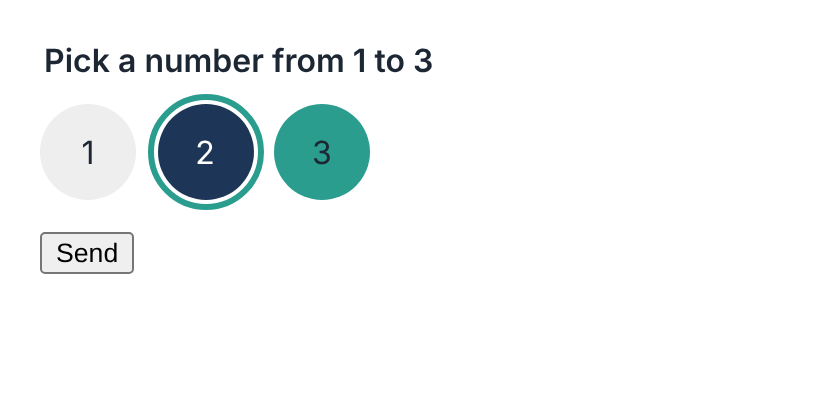
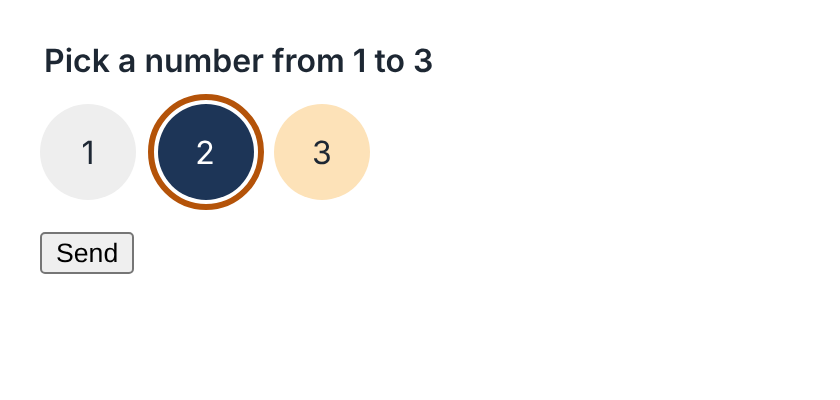
prep for gumroad and website blog

Changed region(s): [[0.1548, 0.24, 0.4643, 0.54]]

diff --git a/tools/about_toc.py b/tools/about_toc.py
@@ -1,0 +1,115 @@
+"""Insert (or refresh) the collapsed "About this module" block (Modules 1-13) and the Contents list (all modules) under each post's Time line.
+Idempotent: the inserted parts sit between <!-- about:start/end --> and <!-- contents:start/end --> markers.
+Usage (from the Code559 folder):  python tools/about_toc.py            (or pass a blog folder path)
+Needs: pip install markdown-it-py
+Run it after any change to a post's headings, or to the summaries and tips below. Never hand-edit between the markers."""
+import re, glob, os, sys
+from markdown_it import MarkdownIt
+
+BLOG = sys.argv[1] if len(sys.argv) > 1 else os.path.join(os.path.dirname(os.path.abspath(__file__)), "..", "blog")
+
+SUMMARIES = {
+0: "You set up file extensions, VS Code (with its AI features off), Git, the GitHub CLI and Node.js, and prove each one works with a single command. It's what keeps the rest of the course moving: every later module assumes these tools are ready, so no lesson ever stops for an install.",
+1: "You learn how the web delivers a page, how to write HTML by hand, how to link pages together, and how to publish your first page on GitHub Pages. This is foundational: every website, framework and page builder ends up as an HTML file a browser reads. You also finish the first week with something live on the web.",
+2: "You learn to link a stylesheet, write rules for color, type and spacing, predict which rule wins, and build a navigation bar with Flexbox. It saves you hours: when a rule \"does nothing,\" the cause is almost always one of the three problems this module teaches on purpose.",
+3: "You learn the box model, mobile-first media queries, CSS Grid and responsive images, and how to test a page at different widths. It's essential because more visitors will see your site on a phone than on a laptop, and one HTML file with one stylesheet can serve them all.",
+4: "You learn to build forms with real controls, labels and radio groups, and to test them with the keyboard and style their states. It matters to every visitor: a missing label or name can leave a screen reader user guessing, or lose what a visitor typed. The browser already gives you most of the fix if you use the right elements.",
+5: "You learn what a program is, where JavaScript runs, how to see a value and how to read an error message. You also start the Predict → Run → Modify → Create → Debug habit. It's the habit every later module depends on: run it, change it, break it, and read what the computer tells you.",
+6: "You learn values and types, `const` and `let`, operators, comparisons, and `if`/`else`. These are the moves behind every interactive feature: store a value, compare it, decide. They are also where most early bugs come from, so you cause each one on purpose to learn to recognize it.",
+7: "You learn to define, call, test and return values from functions, including how to write one from a one-sentence description. It's how working developers check their code: a function that hands back a value can be tested with made-up inputs before any web page exists.",
+8: "You learn to keep lists in arrays, visit every item with a loop, and give each item named facts with objects. It's the toolkit for any page built from data: twenty projects or milestones don't fit in twenty separate variables.",
+9: "You learn to find elements on a page, change them, and react to clicks and keys, organizing every script in the same three blocks. This is where everything you've learned becomes visible: the language from Modules 5–8 finally changes what a visitor sees.",
+10: "You learn to catch a form before it sends, check what was typed, show accessible error messages, and confirm success. It's a kindness to your visitors: a clear message in the right place saves them from guessing. You'll also learn why these checks are about the visitor's experience, not security.",
+11: "You learn to read errors, track down bugs with the Console, test with the keyboard, and write Action / Expected / Actual test plans. It turns fixing into a method, not luck: guess-and-edit stops working once a page has real JavaScript, and a written test can be checked again after every change.",
+12: "You learn what your save routine actually does: staging, diffs, history, branches, merges, and Issues and pull requests connected with `Closes #1`. You also learn to tag a v1.0 release. It's what employers look for: a history of small, clear commits and merged pull requests shows you work the way a team does.",
+13: "You learn to turn a written requirement into tasks, and to finish each feature with the nine-step completion standard. Then you check the whole site and audit your portfolio. It's the skill real work asks for: building from a short list with no step-by-step guide, and knowing when you are actually done.",
+}
+
+TIPS = """**Tips for the learner**
+
+Some prompts ask you to explain code to yourself, out loud. Others ask you to write something down. Each habit does a different job.
+
+**Recite to understand.** When a prompt says "out loud," explain the code in your own words, as if you were teaching it. Saying it aloud makes a deeper impression than reading silently. It helps you picture how the pieces of code fit together. And it shows you right away which line you cannot explain yet. That line is the one to review.
+
+**Write it down to check yourself.** When a prompt says "write down," it is usually a prediction, a choice, or a guess about a bug. A written answer can't change after you see the result, so the comparison is fair and you learn from the difference. Writing also keeps your attention on the lesson and helps you pick out the main points.
+
+**Keep one notebook for this course.** Use it for your predictions, key terms, steps, mistakes, and questions to come back to. Date each entry and write the module number, so you can find it later. Before you start a new module, read your last few entries and recite one or two of them out loud."""
+
+TIPS_M0 = """**Tips for the learner**
+
+This module is mostly installing, so its prompts ask you to write things down. In later modules, some prompts will also ask you to explain code to yourself, out loud. Each habit does a different job.
+
+**Write it down to check yourself.** Here that means your answers in Concept 1, and what each version command prints. A written answer can't change after you see the result, so the comparison is fair and you learn from the difference. If a tool stops working in a later module, your notes show what was working before.
+
+**Recite to understand.** From the later modules on, when a prompt says "out loud," explain the code in your own words, as if you were teaching it. Saying it aloud makes a deeper impression than reading silently, and it shows you right away which line you cannot explain yet.
+
+**Start one notebook for this course, today.** Use it for your predictions, key terms, steps, mistakes, and questions to come back to. Date each entry and write the module number. Your first entries come from this module: the four version numbers (Git, GitHub CLI, Node, npm) and the folder path of `my-site`."""
+
+BADGE = '<img src="images/brand/marker-{n}.svg" alt="" width="24" height="24" style="vertical-align:-0.35em;">'
+LEGEND = f"""**The four badges**
+
+Every core concept moves through the same four steps, called IEIA. Each step is marked with its badge.
+
+{BADGE.format(n="introduce")} - **Introduce** (a lightbulb: a new idea) - You meet the concept: its name, and why it matters to you, in a sentence or two.
+
+{BADGE.format(n="explain")} - **Explain** (a speech bubble: the idea in words) - How it works, one idea at a time, in plain words.
+
+{BADGE.format(n="illustrate")} - **Illustrate** (an eye: see it) - A small example you can look at: a code snippet, a real screenshot or a diagram. Its caption, which starts with this badge, tells you what to notice.
+
+{BADGE.format(n="apply")} - **Apply** (a keyboard: your turn) - A short task to do right now, before you read on. Often you type or predict something; sometimes you write it down, sketch it, or explain code to yourself out loud."""
+
+def about_block(n):
+    return ("<!-- about:start -->\n<details>\n<summary><strong>About this module</strong></summary>\n\n"
+            f"**What this module covers**\n\n{SUMMARIES[n]}\n\n{TIPS_M0 if n == 0 else TIPS}\n\n{LEGEND}\n\n</details>\n<!-- about:end -->")
+
+def gh_slug(text):
+    """GitHub-style heading id: lowercase, drop punctuation (keep letters, digits, _, -, spaces), spaces to hyphens."""
+    s = text.strip().lower()
+    s = re.sub(r"[^\w\- ]", "", s)
+    return s.replace(" ", "-")
+
+def headings(src):
+    md = MarkdownIt("commonmark", {"html": True}).enable("table")
+    src = re.sub(r"\A---\n.*?\n---\n", "", src, flags=re.S)
+    toks = md.parse(src)
+    out, seen = [], {}
+    for i, t in enumerate(toks):
+        if t.type != "heading_open":
+            continue
+        inline = toks[i + 1]
+        plain = "".join(c.content for c in inline.children if c.type in ("text", "code_inline"))
+        base = gh_slug(plain); k = seen.get(base, 0); seen[base] = k + 1
+        out.append((t.tag, inline.content, base if k == 0 else f"{base}-{k}"))
+    return out
+
+def contents_block(src):
+    lines, in_core = ["<!-- contents:start -->", "", "**Contents**", ""], False
+    for tag, text, slug in headings(src):
+        if tag == "h2":
+            in_core = text == "Core concepts"
+            lines.append(f"- [{text}](#{slug})")
+        elif tag == "h3" and in_core:
+            lines.append(f"  - [{text}](#{slug})")
+    lines += ["", "<!-- contents:end -->"]
+    return "\n".join(lines)
+
+def process(path):
+    raw = open(path, "rb").read()
+    crlf = b"\r\n" in raw                      # keep the file's own line endings (Windows checkouts use CRLF)
+    s = raw.decode("utf-8").replace("\r\n", "\n")
+    n = int(re.search(r"^module:\s*(\d+)", s, re.M).group(1))
+    s = re.sub(r"\n*<!-- about:start -->.*?<!-- about:end -->\n*", "\n\n", s, flags=re.S)
+    s = re.sub(r"\n*<!-- contents:start -->.*?<!-- contents:end -->\n*", "\n\n", s, flags=re.S)
+    m = re.search(r"^\*\*Time:\*\*[^\n]*\n", s, re.M)
+    assert m, path
+    head, rest = s[:m.end()], s[m.end():].lstrip("\n")
+    parts = [about_block(n), contents_block(s)]
+    s = head + "\n" + "\n\n".join(parts) + "\n\n" + rest
+    if crlf:
+        s = s.replace("\n", "\r\n")
+    open(path, "w", encoding="utf-8", newline="").write(s)
+    return n
+
+if __name__ == "__main__":
+    for f in sorted(glob.glob(os.path.join(BLOG, "module-*.md"))):
+        print(process(f), os.path.basename(f))

diff --git a/AGENTS.md b/AGENTS.md
@@ -1,0 +1,37 @@
+# Instructions for coding agents (Code559)
+
+The free lessons of the Code559 Front-End Developer Course: `blog/index.md` plus 14 module posts (`blog/module-00-*.md` to `blog/module-13-*.md`) and their pictures in `blog/images/`. The website (559solutions.com) and the paid packets are both built from these files.
+
+## Owner rules (always)
+
+- Do not commit, push, tag, open pull requests, or deploy. The owner reviews the diff and does those himself.
+- Do not run `gh auth`, and do not read or print credentials or tokens.
+- Keep each change to the task you were given.
+
+## Writing rules
+
+Follow `blog/STYLE-GUIDE.md` exactly. Its key points:
+
+- Reading level grade 6 to 10: short sentences, second person, plain words. No profanity.
+- Banned words: genuinely, honestly, straightforward.
+- "Out loud" is used only for explaining code to yourself. The first one in each module carries the `[^recite]` footnote.
+- Every core concept follows the IEIA badges (Introduce, Explain, Illustrate, Apply).
+- Nothing unverified is published. Check each fact against a named source (MDN, GitHub Docs, git-scm.com) and add it, dated, to the post's "Sources checked" line.
+- Pictures: real captures or renders, or drawn copies with a visible ILLUSTRATION label. Alt text on every picture. Never show a build path, a real student's name, or personal details.
+- The "## Project (in the full packet)" section of each post is a public promise of what the paid packet contains. Do not change it without telling the owner, because the packet must still match it.
+
+## Generated blocks: do not hand-edit
+
+Text between `<!-- about:start -->` / `<!-- about:end -->` and `<!-- contents:start -->` / `<!-- contents:end -->` is generated. After any change to a post's headings, or to the summaries or tips, run:
+
+```
+pip install markdown-it-py
+python tools/about_toc.py
+```
+
+It is safe to run more than once, and it keeps each file's line endings.
+
+## After a lesson changes
+
+1. Update the website copy: in `../559solutions.com`, run `pnpm sync:code559` then `pnpm validate`.
+2. Tell the owner which modules changed. Their paid packets (PDF and EPUB) need a rebuild from the private packets folder (`../Code559-packets`, see its README). Do not put packet content in this repository; it is the paid product.

diff --git a/blog/module-04-forms-accessibility.md b/blog/module-04-forms-accessibility.md
@@ -239,7 +239,8 @@ Finally, style the label from the radio's **state**. Put each input right before
 
 ```css
 :root {
-  --ring: #2a9d8f;
+  --ring: #b45309;
+  --hover: #fde2b8;
   --on: #1d3557;
 }
 
@@ -255,14 +256,14 @@ Finally, style the label from the radio's **state**. Put each input right before
   border: 0;
 }
 
-.choices label:hover { background: var(--ring); }
+.choices label:hover { background: var(--hover); }
 .choices input:focus-visible + label { outline: 3px solid var(--ring); }
 .choices input:checked + label { background: var(--on); color: white; }
 ```
 
 <div role="separator" style="display:flex;align-items:flex-end;margin:1.5em 0;"><img src="images/brand/divider-wall.svg" alt="" style="flex:1;min-width:0;height:34px;"><img src="images/brand/divider-window.svg" alt="" style="width:70px;height:34px;"><img src="images/brand/divider-wall.svg" alt="" style="flex:3;min-width:0;height:34px;"><img src="images/brand/divider-door.svg" alt="" style="width:46px;height:34px;"></div>
 
-![Three round buttons labeled 1, 2 and 3. Button 2 is dark with a teal ring around it; button 3 is teal.](images/m04-state-selectors.png)
+![Three round buttons labeled 1, 2 and 3. Button 2 is dark with a dark orange ring around it; button 3 is light orange.](images/m04-state-selectors.png)
 <img src="images/brand/marker-illustrate.svg" alt="Illustrate" width="24" height="24" style="vertical-align:-0.35em;"> *2 is checked (dark) and has keyboard focus (ring); the mouse is over 3 (`:hover`). The radios are invisible, yet Tab landed on the checked one, and Send produced `?pick=2`. When the inputs were set to `display: none` instead, the first Tab skipped the group and went straight to Send. (real: rendered in Chromium at 420 px)*
 
 <img src="images/brand/marker-apply.svg" alt="Apply" width="24" height="24" style="vertical-align:-0.35em;"> Predict: you swap the order of one input and its label in the HTML. Which state style stops working for that choice, and why does `+` explain it?

diff --git a/blog/module-08-arrays-loops-objects.md b/blog/module-08-arrays-loops-objects.md
@@ -390,7 +390,7 @@ live || year === 2026
 
 ## Project (in the full packet)
 
-The project is a `site-data.js` file for your personal site: your real Projects and Milestones written as two arrays of objects (title, year, a short description, tags, and whether each one is live), plus a few small functions that summarize the data, written from one-sentence descriptions and tested in Node. One counts the live projects, one lists every title as a single line of text, and one collects the milestones from a given year. In Module 9 you use the same patterns on a web page, building a list from an array of objects.
+The project is a `site-data.js` file for your personal site: your real Projects and Milestones written as two arrays of objects (each with a title, year and short description; projects also have tags and whether each one is live), plus a few small functions that summarize the data, written from one-sentence descriptions and tested in Node. One counts the live projects, one lists every title as a single line of text, and one collects the milestones from a given year. In Module 9 you use the same patterns on a web page, building a list from an array of objects.
 
 The full brief, the step-by-step build, and the finishing work in Git are in the Module 8 packet. [Get the packet →](https://code559.gumroad.com/l/module-08-arrays-loops-objects)
 

diff --git a/blog/module-05-javascript-primer.md b/blog/module-05-javascript-primer.md
@@ -142,7 +142,7 @@ console.log("This line runs second.");
 console.log(2 + 3); // a number, not text
 ```
 
-<img src="images/brand/marker-apply.svg" alt="Apply" width="24" height="24" style="vertical-align:-0.35em;"> Point at each semicolon and say "end of instruction" to yourself, out loud.[^recite] Then find the comment at the end of line 4.
+<img src="images/brand/marker-apply.svg" alt="Apply" width="24" height="24" style="vertical-align:-0.35em;"> Point at each semicolon in lines 2 to 4 and explain it to yourself, out loud: "This semicolon ends the instruction on this line."[^recite] Say it three times, once per line. Your memory aid is the short form, **"semicolon: end of instruction"**; recite it until it comes without thinking. Then find the comment at the end of line 4 and explain it out loud too: "Everything after the two slashes is a note the computer skips."
 
 ### 4. How do you see a value?
 
